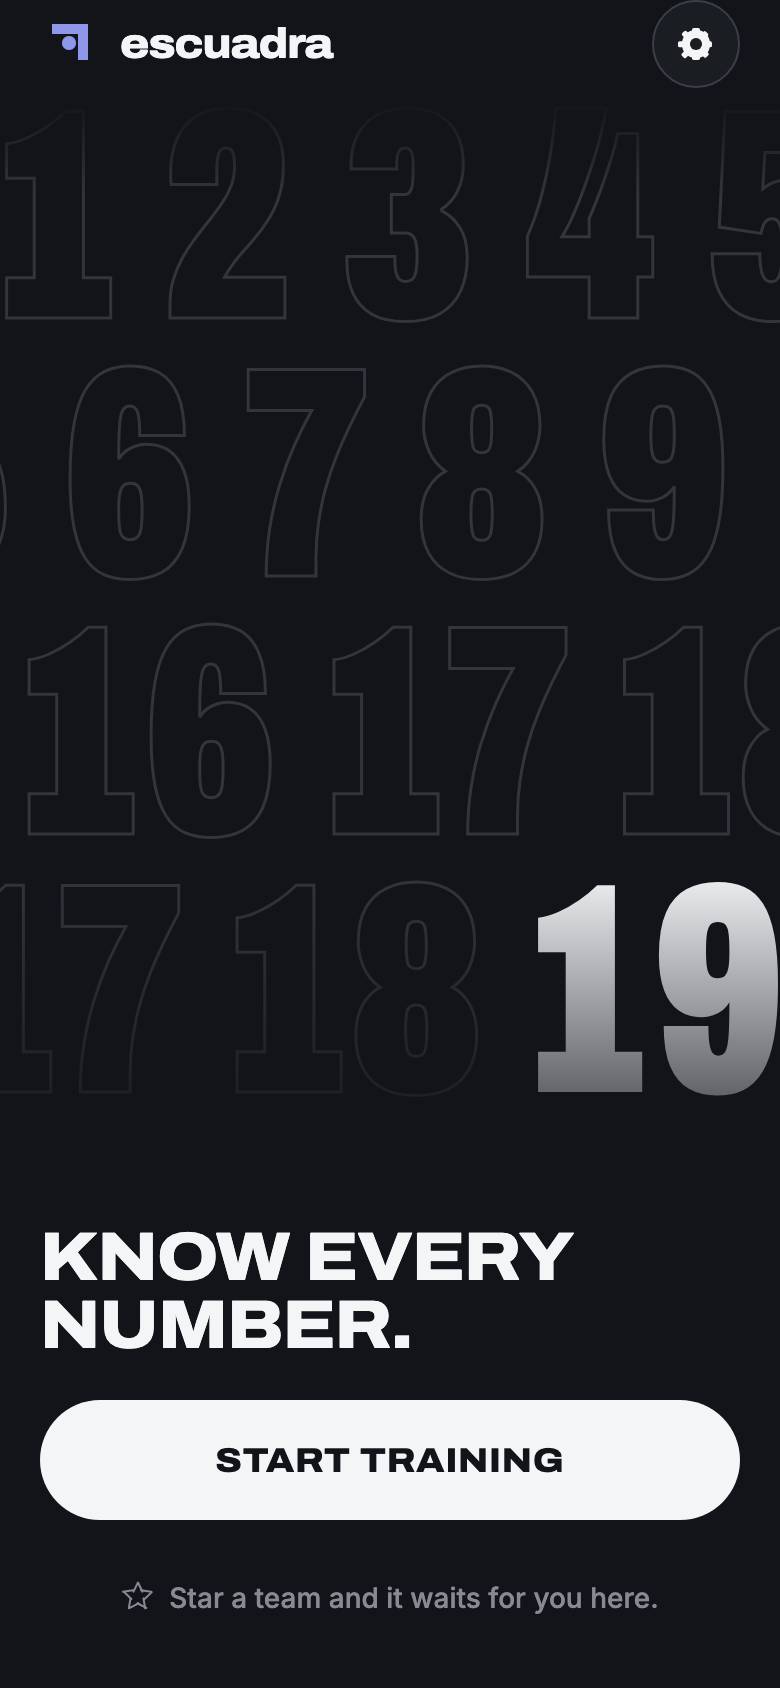
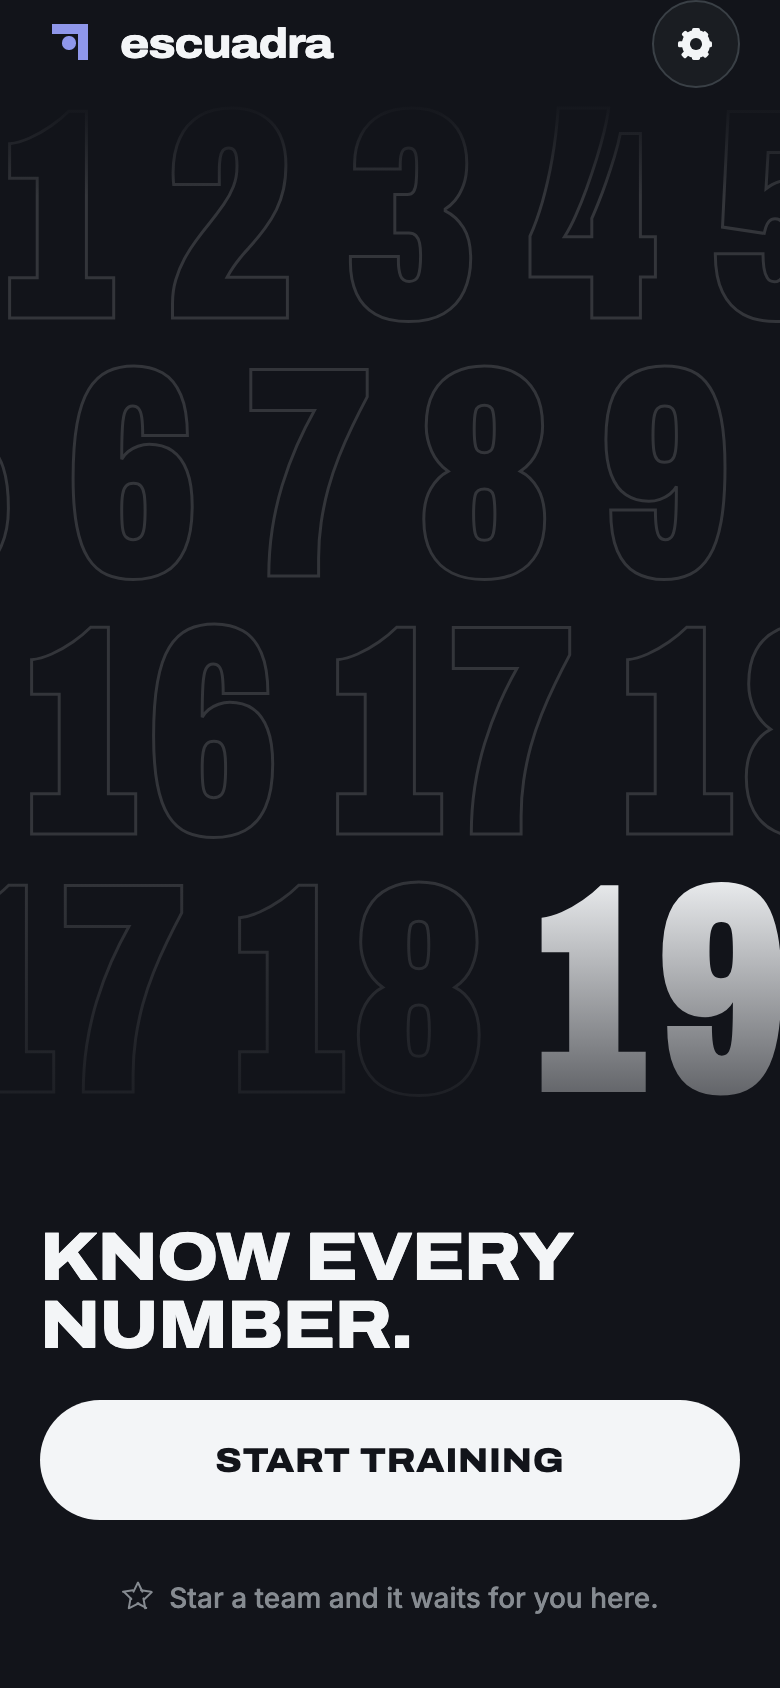
fix(home): live Reduce Motion, one SVG per wall number, stale Home comments (#181)
The wall now follows Reduce Motion as it changes, not as it was at launch.
Each number is its own small SVG so Android never caches a row-wide bitmap
past a GPU's texture limit. useAppActive re-reads the state after
subscribing. Comments that described the old Home say what is true now, and
Home's screenshots are re-captured.

diff --git a/components/NumberWall.tsx b/components/NumberWall.tsx
@@ -5,7 +5,6 @@ import Animated, {
   Easing,
   cancelAnimation,
   useAnimatedStyle,
-  useReducedMotion,
   useSharedValue,
   withRepeat,
   withSequence,
@@ -13,7 +12,8 @@ import Animated, {
 } from 'react-native-reanimated';
 import Svg, { Text as SvgText } from 'react-native-svg';
 import { useAppActive } from './useAppActive';
-import { WALL_ROWS, layoutRow, rowOffset, type WallRowSpec } from '@/lib/numberWall';
+import { useReduceMotion } from './useReduceMotion';
+import { WALL_ROWS, layoutRow, numberWidth, rowOffset, type WallRowSpec } from '@/lib/numberWall';
 import { numberWall, typography } from '@/theme/tokens';
 import { useThemeColors } from '@/theme/useTheme';
 
@@ -22,13 +22,16 @@ const NO_PAINT = 'none';
 
 // Home's number wall (#181): four rows of shirt numbers drifting in alternate
 // directions behind the headline. React Native text has no outline, so each
-// row is one SVG of outlined numbers, drawn once and moved on the UI thread.
+// number is a small SVG of outlined text, drawn once; a row's view is moved on
+// the UI thread. One SVG per number, not per row: Android caches an SVG as one
+// bitmap, and a whole row would pass some GPUs' texture limit.
 // Decorative: hidden from screen readers and from touches. The drift is the
-// Motion rule's written exception; it stands still under Reduce Motion, and
-// stops while the app is in the background or Home isn't the focused screen.
+// Motion rule's written exception; it stands still under Reduce Motion (read
+// live, so turning it on mid-session stops the drift), and stops while the app
+// is in the background or Home isn't the focused screen.
 export function NumberWall({ top }: { top: number }) {
   const { width } = useWindowDimensions();
-  const reduced = useReducedMotion();
+  const reduced = useReduceMotion();
   const focused = useIsFocused();
   const active = useAppActive();
   const running = !reduced && focused && active;
@@ -89,11 +92,15 @@ function WallRow({
   const fills = { primary: colors.textPrimary, mark: colors.mark } as const;
   return (
     <Animated.View style={[{ width: layout.width, height: numberWall.rowHeight }, drift]}>
-      <Svg width={layout.width} height={numberWall.rowHeight}>
-        {layout.items.map((item) => (
+      {layout.items.map((item) => (
+        <Svg
+          key={item.x}
+          width={numberWidth(item.n) + 2 * numberWall.stroke}
+          height={numberWall.rowHeight}
+          style={[styles.number, { left: item.x }]}
+        >
           <SvgText
-            key={item.x}
-            x={item.x}
+            x={numberWall.stroke}
             y={numberWall.baseline}
             fontFamily={typography.shirtNumber.fontFamily}
             fontSize={numberWall.fontSize}
@@ -104,12 +111,13 @@ function WallRow({
           >
             {String(item.n)}
           </SvgText>
-        ))}
-      </Svg>
+        </Svg>
+      ))}
     </Animated.View>
   );
 }
 
 const styles = StyleSheet.create({
+  number: { position: 'absolute', top: 0 },
   wall: { position: 'absolute', left: 0, right: 0, overflow: 'hidden', pointerEvents: 'none' },
 });

diff --git a/components/useReduceMotion.ts b/components/useReduceMotion.ts
@@ -1,0 +1,25 @@
+import { useEffect, useState } from 'react';
+import { AccessibilityInfo } from 'react-native';
+import { useReducedMotion } from 'react-native-reanimated';
+
+/**
+ * True while the system's Reduce Motion setting is on, and live: Reanimated's
+ * own hook reads the setting once, at module load, so it only seeds this one.
+ * On web, react-native-web's AccessibilityInfo follows `prefers-reduced-motion`.
+ * The wall's drift stops with it (#181).
+ */
+export function useReduceMotion(): boolean {
+  const [reduced, setReduced] = useState(useReducedMotion());
+  useEffect(() => {
+    let current = true;
+    AccessibilityInfo.isReduceMotionEnabled().then((enabled) => {
+      if (current) setReduced(enabled);
+    });
+    const sub = AccessibilityInfo.addEventListener('reduceMotionChanged', setReduced);
+    return () => {
+      current = false;
+      sub.remove();
+    };
+  }, []);
+  return reduced;
+}

diff --git a/stores/progress.ts b/stores/progress.ts
@@ -23,8 +23,8 @@ interface ProgressState {
   /** Key: `${squadId}:${level}`. Each best keeps the squad's `lastUpdated`
    *  from when it was set, so a later squad update marks it outdated (#180). */
   bestScores: Record<string, BestScore>;
-  /** Backs Home's "continue" card — the most recent team+level a round was
-   *  started for, regardless of how it finished. */
+  /** Backs Home's Continue button (#181) — the most recent team+level a round
+   *  was started for, regardless of how it finished. */
   lastPlayed: LastPlayed | null;
   /** Appearance preference. `'system'` follows the device setting; an explicit
    *  value pins one theme. Survives `reset()`, which clears game progress

diff --git a/scripts/screenshot-profiles.ts b/scripts/screenshot-profiles.ts
@@ -149,7 +149,8 @@ export function assertProfileDimensions(
  * nothing from i18n/, because that would make Node load a `.ts` file from a
  * package with no "type" and warn on every `npm run shots*`. A language
  * without a reviewed catalog is rejected by capture-screens.mjs instead: its
- * Home-chip assertion throws when the chip does not show the requested code.
+ * check of Settings' language row throws when the row does not show the
+ * requested language.
  */
 export function resolveLanguageArg(argv: readonly string[]): string | null {
   if (argv.includes('--lang')) {

diff --git a/components/EscuadraStrike.tsx b/components/EscuadraStrike.tsx
@@ -131,8 +131,7 @@ export function EscuadraStrike({ size, color, ballColor = color, timing }: Escua
       trail0.value = withDelay(delay, withTiming(1, { duration, easing: riseEasing }));
       trail1.value = withDelay(delay + stagger, withTiming(1, { duration, easing: riseEasing }));
     }
-    // Plays once, on mount — a fresh strike each time the results screen or
-    // home screen mounts.
+    // Plays once, on mount — a fresh strike each time the results screen mounts.
     // eslint-disable-next-line react-hooks/exhaustive-deps
   }, []);
 

diff --git a/components/useAppActive.ts b/components/useAppActive.ts
@@ -6,6 +6,9 @@ export function useAppActive(): boolean {
   const [active, setActive] = useState(() => AppState.currentState === 'active');
   useEffect(() => {
     const sub = AppState.addEventListener('change', (state) => setActive(state === 'active'));
+    // A change between the initial state and this subscription would be lost.
+    // eslint-disable-next-line react-hooks/set-state-in-effect
+    setActive(AppState.currentState === 'active');
     return () => sub.remove();
   }, []);
   return active;

diff --git a/i18n/en.ts b/i18n/en.ts
@@ -62,7 +62,7 @@ export const en = {
   home: {
     /** The gear button's spoken name. */
     settings: 'Settings',
-    /** ≤ 24 chars: the continue card's meta line, in IBM Plex Mono capitals. */
+    /** ≤ 24 chars: Continue's meta line, in IBM Plex Mono capitals. */
     continueMeta: (level: number, best: number | undefined, total: number) =>
       best === undefined ? `LEVEL ${level}` : `LEVEL ${level} · BEST ${best}/${total}`,
     /** ≤ 18 chars: the main button. */

diff --git a/theme/tokens.ts b/theme/tokens.ts
@@ -139,7 +139,7 @@ export interface Palette {
   /** The ring round a 40 × 27 team marker in the picker. */
   markerRing: string;
   // ---- 2.0 Home (#181) ----
-  /** The outline of Home's drifting shirt numbers: the canvas's 14%
+  /** The outline of Home's drifting shirt numbers: the canvas's about 14%
    *  `textPrimary` over `background`, made opaque. */
   wallLine: string;
   /** `background` at no opacity: the clear end of Home's fades. A plain

diff --git a/components/HomeSquads.tsx b/components/HomeSquads.tsx
@@ -49,6 +49,7 @@ export function HomeSquads({
       alignItems: 'center',
       gap: spacing.xxs,
       minHeight: sizes.minTapTarget,
+      // Holds "All teams" to the right when no team is starred (else the ScrollView's flex does).
       marginLeft: 'auto',
     },
     allTeamsLabel: { ...typography.rowTitle, color: colors.textSecondary },

diff --git a/i18n/languageOptions.ts b/i18n/languageOptions.ts
@@ -1,4 +1,4 @@
-// What the Home language sheet lists and what its chip says (#143). React-free
+// What Settings' language sheet lists and what its row says (#143). React-free
 // like ./resolveLanguage.ts, so Vitest can test it.
 import { resolveLanguage, type Language, type LanguagePreference } from './resolveLanguage';
 

diff --git a/README.md b/README.md
@@ -3,7 +3,7 @@
 [![check](https://github.com/tovmassian/escuadra/actions/workflows/check.yml/badge.svg)](https://github.com/tovmassian/escuadra/actions/workflows/check.yml)
 
 Escuadra — a football squad memorisation trainer for iOS and Android. Expo SDK 57 + expo-router, TypeScript strict,
-Zustand, Reanimated. Light and dark themes, following the device setting by default, with a toggle on Home.
+Zustand, Reanimated. Light and dark themes, following the device setting by default, with a theme setting in Settings.
 
 Runs in **Expo Go** for local development — no Xcode, no Apple Developer account, no native build.
 
